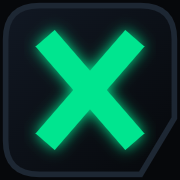
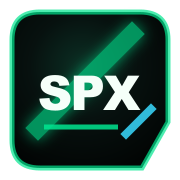
Improve SPINDEX preview branding

diff --git a/src/app/layout.tsx b/src/app/layout.tsx
@@ -1,5 +1,6 @@
 import type { Metadata } from "next";
 import { Inter, Orbitron, Noto_Sans_SC } from "next/font/google";
+import { SITE_URL } from "@/lib/siteUrl";
 import "./globals.css";
 
 const inter = Inter({ subsets: ["latin"], variable: "--font-inter" });
@@ -12,10 +13,42 @@ const notoSC = Noto_Sans_SC({
   preload: false,
 });
 
+const siteTitle = "SPINDEX";
+const siteDescription =
+  "The Beyblade X catalog & combo lab - browse every blade, lock chip, assist blade, ratchet and bit, build combos and share them.";
+const shareImage = "/brand/spindex-share-card.png";
+
 export const metadata: Metadata = {
-  title: "SPINDEX",
-  description:
-    "The Beyblade X catalog & combo lab - browse every blade, lock chip, assist blade, ratchet and bit, build combos and share them.",
+  metadataBase: new URL(SITE_URL),
+  title: siteTitle,
+  description: siteDescription,
+  icons: {
+    icon: [
+      { url: "/favicon.ico", sizes: "any" },
+      { url: "/icon.svg", type: "image/svg+xml" },
+    ],
+    apple: [{ url: "/apple-icon.png", sizes: "180x180", type: "image/png" }],
+  },
+  openGraph: {
+    title: siteTitle,
+    description: siteDescription,
+    siteName: siteTitle,
+    type: "website",
+    images: [
+      {
+        url: shareImage,
+        width: 1200,
+        height: 630,
+        alt: "SPINDEX Beyblade X platform",
+      },
+    ],
+  },
+  twitter: {
+    card: "summary_large_image",
+    title: siteTitle,
+    description: siteDescription,
+    images: [shareImage],
+  },
 };
 
 export default function RootLayout({ children }: { children: React.ReactNode }) {

diff --git a/src/app/[locale]/layout.tsx b/src/app/[locale]/layout.tsx
@@ -6,6 +6,8 @@ import { AuthProvider } from "@/lib/auth";
 import { getDict, isLocale, locales, Locale } from "@/i18n";
 import { SITE_URL } from "@/lib/siteUrl";
 
+const shareImage = "/brand/spindex-share-card.png";
+
 export function generateStaticParams() {
   return locales.map((locale) => ({ locale }));
 }
@@ -18,21 +20,36 @@ export async function generateMetadata({
   const { locale } = await params;
   if (!isLocale(locale)) return {};
   const dict = getDict(locale);
+  const title = `${dict.site.name} - ${dict.site.tagline}`;
+  const description = dict.site.description;
   return {
     metadataBase: new URL(SITE_URL),
     title: {
       default: `${dict.site.name} — ${dict.site.tagline}`,
       template: `%s — ${dict.site.name}`,
     },
-    description: dict.site.description,
+    description,
     openGraph: {
-      title: `${dict.site.name} — ${dict.site.tagline}`,
-      description: dict.site.description,
+      title,
+      description,
       siteName: dict.site.name,
       locale: locale === "zh" ? "zh_CN" : "en_MY",
       type: "website",
+      images: [
+        {
+          url: shareImage,
+          width: 1200,
+          height: 630,
+          alt: "SPINDEX Beyblade X platform",
+        },
+      ],
     },
-    twitter: { card: "summary_large_image" },
+    twitter: {
+      card: "summary_large_image",
+      title,
+      description,
+      images: [shareImage],
+    },
   };
 }
 
